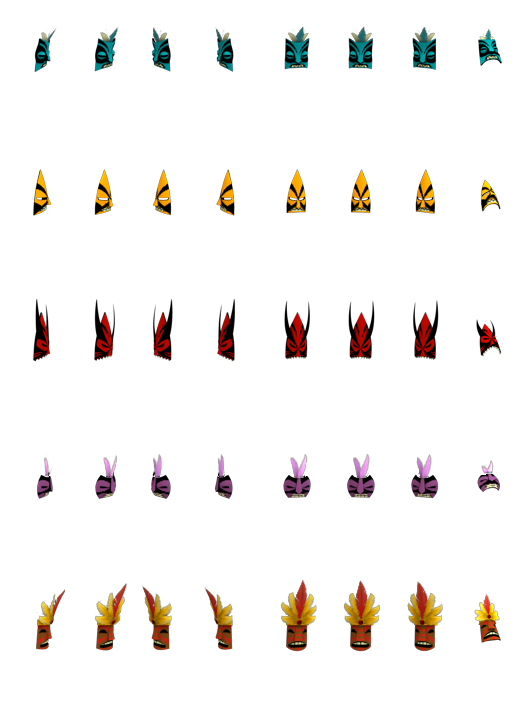
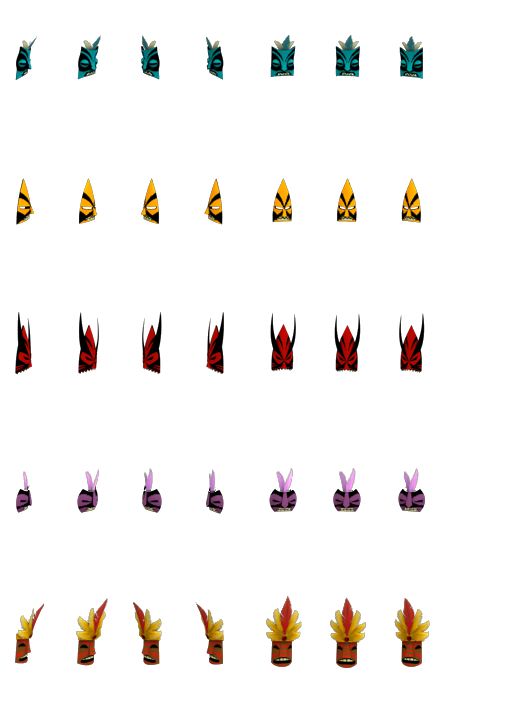
VV2 mask: register VV5's cell onto VV2's smaller head cell
VV5 confirmed why a zero-offset draw works for them and not here: their mask
cell and head cell are the same 65x145, so placing the mask cell at the head
cell's corner auto-aligns the face. VV2's head cell is 40x65, so the same draw
put masks down and right of the head, at torso level.

Keep VV5's cell (65x145, 8 facing columns x 5 colour rows) and bake the
coordinate conversion into the art instead: each frame's face region is placed
at VV2's own measured head-cell face point for that facing. Per-facing residual
is within 0.5px on every mask and facing, with no clipping.

That leaves the draw offset-free in x. Y keeps a single lift, because a mask's
face sits on the head's face while its headdress extends above it, so the art
is placed lower in the cell and the draw lifts it back. The lift scales with
the head, so children match.

diff --git a/scripts/build_vv2_mask_stage2.py b/scripts/build_vv2_mask_stage2.py
@@ -87,7 +87,12 @@ ATLAS_COLS, ATLAS_ROWS = 8, 5     # 520/8=65 wide, 725/5=145 tall
 # VV5-standard mask cell: 65x145, 8 facing columns x 5 colour rows, used as the
 # artist laid it out (no re-packing). The cell is much larger than the 40x65 head
 # cell, so the draw subtracts MASK_PAD_X/ADULT_MASK_DY to register it on the head.
-MASK_PAD_X = 0                    # VV5 standard: mask draws at the head's exact X
+# VV5's cell (65x145) is larger than VV2's head cell (40x65). VV5 can draw at the
+# head's raw x/y because their head cell IS that size; on VV2 the cell origins do
+# not coincide, so drawing at raw x/y puts the mask down-and-right of the head
+# (observed in-game). These constants re-register VV5's cell onto VV2's head cell;
+# they are the equivalent of VV5's "draw at the head anchor", not extra tuning.
+MASK_PAD_X = 0                    # X registration is baked per-facing into the atlas
 
 # --- cave layout -----------------------------------------------------------
 # Mask code + atlas-ptr + filename now live in an appended R/W/X section (.vvmk),
@@ -112,12 +117,14 @@ MASK_ROW_TEST = 4                 # 0 Blue,1 Orange,2 Red,3 Purple,4 Chief (hard
 # its face lands on the villager's face.  Adults draw unscaled -> fixed 32px.  Children draw
 # through the SCALED path (scale s = arg6*0.01), so the lift must scale too: 32*s ~= (arg6*41)>>7
 # (matches 32*s within a pixel across the whole child age range).
-ADULT_MASK_DY = 0x00              # VV5 standard: mask draws at the head's exact Y
-CHILD_DY_MUL, CHILD_DY_SHIFT = 0, 7    # VV5 standard: no lift; mask sits at the head's exact Y
+# Y needs headroom: a mask's face sits at the head's face, but headdresses extend
+# above it, so the art is placed LIFT lower in the cell and the draw lifts it back.
+ADULT_MASK_DY = 0x2A              # 42, matches LIFT in the atlas builder
+CHILD_DY_MUL, CHILD_DY_SHIFT = 54, 7   # 42px lift at full scale, scaled with the head
 # The Details/portrait draw (caller < 0x445B50) goes through the SAME scaled thunk but pushes
 # arg6 = 2*(age/7)+0xA0 = DOUBLE the in-world scaledRow, so the same multiplier double-lifts and
 # the mask flies above the head.  Give the portrait its own (smaller) multiplier; tune to taste.
-PORTRAIT_DY_MUL = 0    # VV5 standard: no lift on the portrait either
+PORTRAIT_DY_MUL = 54   # same lift on the portrait (arg6 carries its own scale)
 # The mask atlas is baked/tuned for the 1x village view; the Details portrait draws the same
 # atlas larger, leaving masks a touch high+left there.  Nudge masks down+right on the portrait
 # path ONLY (caller < 0x445B50).  Tune to taste.

diff --git a/scripts/build_vv2_mask_atlas_from_frames.py b/scripts/build_vv2_mask_atlas_from_frames.py
@@ -53,8 +53,7 @@ ATLAS = _NATIVE / "heathen_masks.png"
 # feathers extend past the head, and a head-sized cell clips them (chief lost 64px
 # of feather tip at 40 wide). PAD_X is the horizontal margin on EACH side, so the
 # exe draws the mask at (headX - PAD_X, headY - LIFT).
-CELL_W, CELL_H = 52, 90     # mask atlas cell (head cell is 40x65)
-PAD_X = 6                   # (CELL_W - 40) / 2
+CELL_W, CELL_H = 65, 145    # VV5-standard mask cell (VV2's head cell is 40x65)
 FRAMES = 7                  # VV2 head atlas columns; the 8th source frame is dropped
 MASKS = ["blue", "orange", "red", "purple", "chief"]
 _MIN_BLOB = 60              # ignore stray specks
@@ -142,7 +141,12 @@ def build(source: Path, out: Path) -> None:
             art_x, art_y = face_anchor(art)
             # Put the mask's face region on the head's face. +LIFT converts the
             # head-cell y into this taller atlas cell's coordinates.
-            px = int(round(PAD_X + face_x - art_x))
+            # Bake the per-facing registration into the ART: put each frame's face
+            # region at VV2's head-cell face point for that facing. VV5 needs none of
+            # this because its mask cell IS its head cell (65x145) so a cell-corner
+            # draw auto-aligns; VV2's head cell is 40x65, so the conversion has to
+            # live somewhere. Baking it here keeps the draw offset-free in x.
+            px = int(round(face_x - art_x))
             py = int(round(face_y + LIFT - art_y))
 
             h, w = art.shape[:2]
